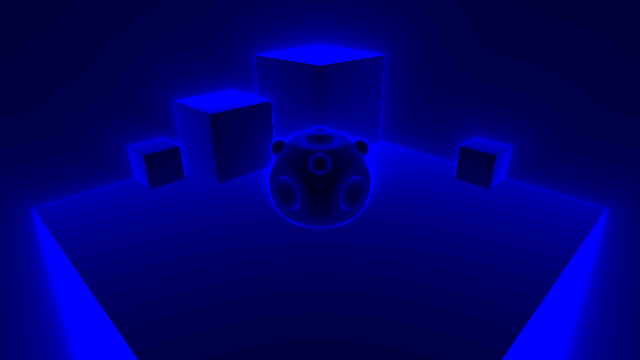
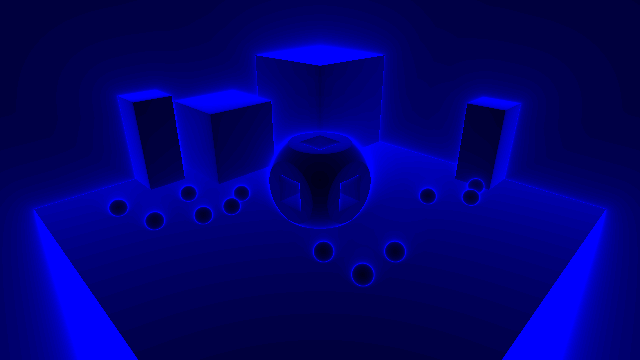
A few improvements.

diff --git a/README.md b/README.md
@@ -25,7 +25,7 @@ $ cloc --include-lang=Scala .
 -------------------------------------------------------------------------------
 Language                     files          blank        comment           code
 -------------------------------------------------------------------------------
-Scala                            1             85             94            547
+Scala                            1             96             97            565
 -------------------------------------------------------------------------------
 ```
 
@@ -35,17 +35,11 @@ The process of generating the image above is based on the combination of the fol
 
 ### Constructive Solid Geometery
 
-Constructive solid geometry is the technique of using boolean operators to combine geometrical objects as illustrated:
-
-| Union | Intersection | Difference |
-|:---:|:---:|:---:|
-|<img src="/docs/csg_union.png" width="200" height="150" />|<img src="/docs/csg_intersection.png" width="200" height="150" />|<img src="/docs/csg_difference.png" width="200" height="150" />|
-
-A practicle way to represent CSG objects is with a binary tree, where leaves represent primitives and nodes represent operations.
+Constructive solid geometry is the technique of using boolean operators to combine geometrical objects.  A practicle way to represent CSG objects is with a binary tree, where leaves represent primitives and nodes represent operations.
 
 | CSG storage structure |
 |:---:|
-|<img src="/docs/csg_tree.png" style="float: right;" width="300" height="266" />|
+|<img src="/docs/csg.png" style="float: right;" />|
 
 The following code snippet shows how CSG is implemented within this demo:
 
@@ -74,15 +68,26 @@ Given a position in 3D space, a signed distance field, as a construct, can be us
 
 Signed distance fields are often used in modern game engines where a discrete sampling of points in 3D space (which may or may not be updated at runtime) is packed into a 3D texture and then used as a quantised signed distance field lookup to facilitate the implementation of fast realtime shadows.
 
-Another mechanism for constructing a queryable signed distance field is with pure algebra.
+Another mechanism for constructing a queryable signed distance field is with pure algebra.  Take for example a [unit sphere](https://en.wikipedia.org/wiki/Unit_sphere), consider the values that signed distance field should return for the following input points:
 
-... ... ...
+* `(0.0, 0.75, 0.0)` - inside the unit sphere: `-0.25`
+* `(0.0, 1.25, 0.0)` - outside the unit sphere: `0.25`
+* `(1.0, 1.0, 1.0)` - on the surface of unit sphere: `0.0`
+* `(0.4, 0.0, 0.3)` - inside the unit sphere: `-0.5`
+
+In this case the result is directly related to the length of the point from the origin.
+
+This can be written algebraically in the form: `f (p): SQRT (p.x*p.x + p.y*p.y + p.z*p.z) - 1.0`.
+
+More complex and flexible shapes can be defined with more complex equations.
+
+For example the equation given above can be generised to work with spheres of any radius: `f (p): SQRT (p.x*p.x + p.y*p.y + p.z*p.z) - RADIUS`.
 
 The follow code snippet shows this demo's alegbraic implementations: 
 
 ```
-// Signed distance function for a unit sphere (diameter = 1).
-def sphere (offset: Vector, diameter: Double)(position: Vector): Double = (position - offset).length - (diameter / 2.0)
+// Signed distance function for a unit sphere (radius = 1).
+def sphere (offset: Vector, radius: Double)(position: Vector): Double = (position - offset).length - radius
 
 // Signed distance function for a unit cube (h, w, d = 1).
 def cube (offset: Vector, size: Double)(position: Vector): Double = {
@@ -90,6 +95,11 @@ def cube (offset: Vector, size: Double)(position: Vector): Double = {
   val insideDistance: Double = Math.min (Math.max (d.x, Math.max (d.y, d.z)), 0.0)
   val outsideDistance: Double = d.max (0.0).length
   insideDistance + outsideDistance
+}
+
+def cuboid (offset: Vector, size: Vector)(position: Vector): Double = {
+  val q: Vector = (position - offset).abs - (size / 2.0)
+  q.max (0.0).length + Math.min (Math.max (q.x, Math.max (q.y, q.z)), 0.0)
 }
 ```
 
@@ -249,6 +259,7 @@ The final image is a composition, using varied blending techniques, of the data 
 * [Jamie Wong, Ray marching signed distance functions](http://jamie-wong.com/2016/07/15/ray-marching-signed-distance-functions/)
 * [Alex Benton, Ray marching and signed distance fields](http://bentonian.com/Lectures/FGraphics1819/1.%20Ray%20Marching%20and%20Signed%20Distance%20Fields.pdf)
 * [9-bit Science, Raymarching distance fields](http://9bitscience.blogspot.com/2013/07/raymarching-distance-fields_14.html)
+* [Wikipedia, Signed Distance Function](https://en.wikipedia.org/wiki/Signed_distance_function)
 
 
 ## License
